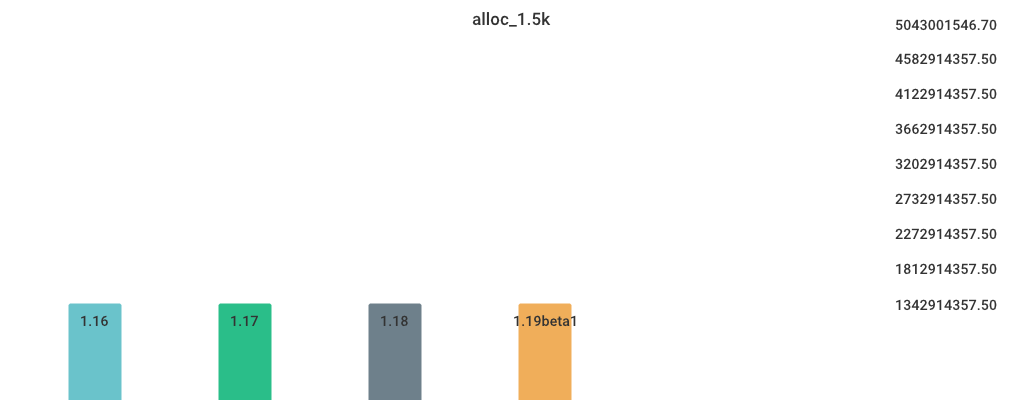
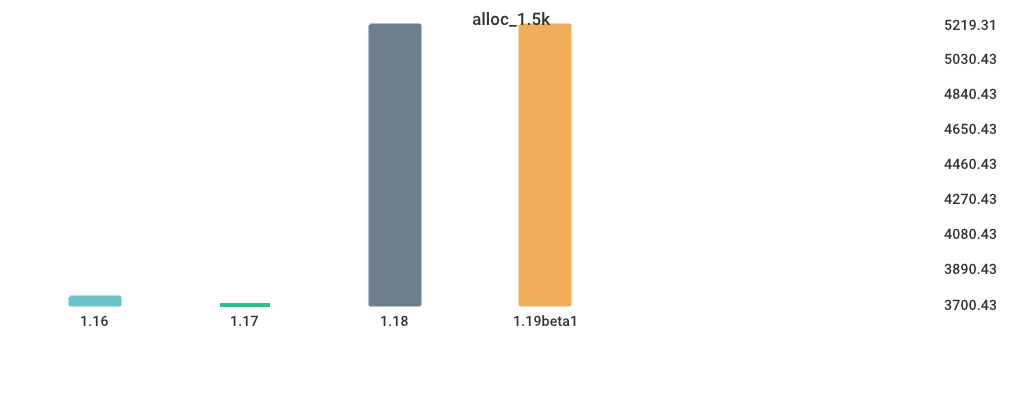
Update Benchmark Results Sun Jun 12 10:45:27 UTC 2022

diff --git a/results/results.md b/results/results.md
@@ -1,24 +1,13 @@
 # Benchmarks
 
-## alloc_1.5k
-
-| Version | Build Time (ms) | Run Time (ms) |
-| ------ | ------ | ------ |
-| 1.16 | 182.169645 | 3879.231959 |
-| 1.17 | 163.171635 | 3846.568009 |
-| 1.18 | 169.689279 | 2703.975633 |
-| 1.19beta1 | 346.619619 | 2685.828715 |
-
-![alloc_1.5k](./78691b2f49e91d20e4fc03ba30be4e2828c5acd9ddd58fbf8d3e5b21bed97b8d.png)
-
 ## Fibonacci
 
 | Version | Build Time (ms) | Run Time (ms) |
 | ------ | ------ | ------ |
-| 1.16 | 170.851810 | 5875.286868 |
-| 1.17 | 155.097870 | 4498.615206 |
-| 1.18 | 166.806434 | 4412.537898 |
-| 1.19beta1 | 345.262124 | 4403.369326 |
+| 1.16 | 127.779254 | 5646.515535 |
+| 1.17 | 122.784347 | 4804.858351 |
+| 1.18 | 124.801970 | 4797.145490 |
+| 1.19beta1 | 263.151033 | 4795.725986 |
 
 ![Fibonacci](./016be0f0bc3aacaadb309d0adc2b1024980e3775065236c79ab0d186380b4f83.png)
 
@@ -26,10 +15,21 @@
 
 | Version | Build Time (ms) | Run Time (ms) |
 | ------ | ------ | ------ |
-| 1.16 | 258.077062 | 6765.938224 |
-| 1.17 | 247.466608 | 6745.738686 |
-| 1.18 | 259.787481 | 6875.041811 |
-| 1.19beta1 | 435.466702 | 3915.527770 |
+| 1.16 | 202.683233 | 5733.742207 |
+| 1.17 | 191.684014 | 5948.739481 |
+| 1.18 | 189.444957 | 5874.937130 |
+| 1.19beta1 | 325.088072 | 3419.882160 |
 
 ![switch-case](./1af1469d75e77ed39c58041d45b37b329137876f59fb4c03529ebb65c78b40aa.png)
+
+## alloc_1.5k
+
+| Version | Build Time (ms) | Run Time (ms) |
+| ------ | ------ | ------ |
+| 1.16 | 165.728130 | 3741.757810 |
+| 1.17 | 122.504851 | 3700.425796 |
+| 1.18 | 129.264966 | 5218.649684 |
+| 1.19beta1 | 270.173783 | 5219.312922 |
+
+![alloc_1.5k](./78691b2f49e91d20e4fc03ba30be4e2828c5acd9ddd58fbf8d3e5b21bed97b8d.png)
 
